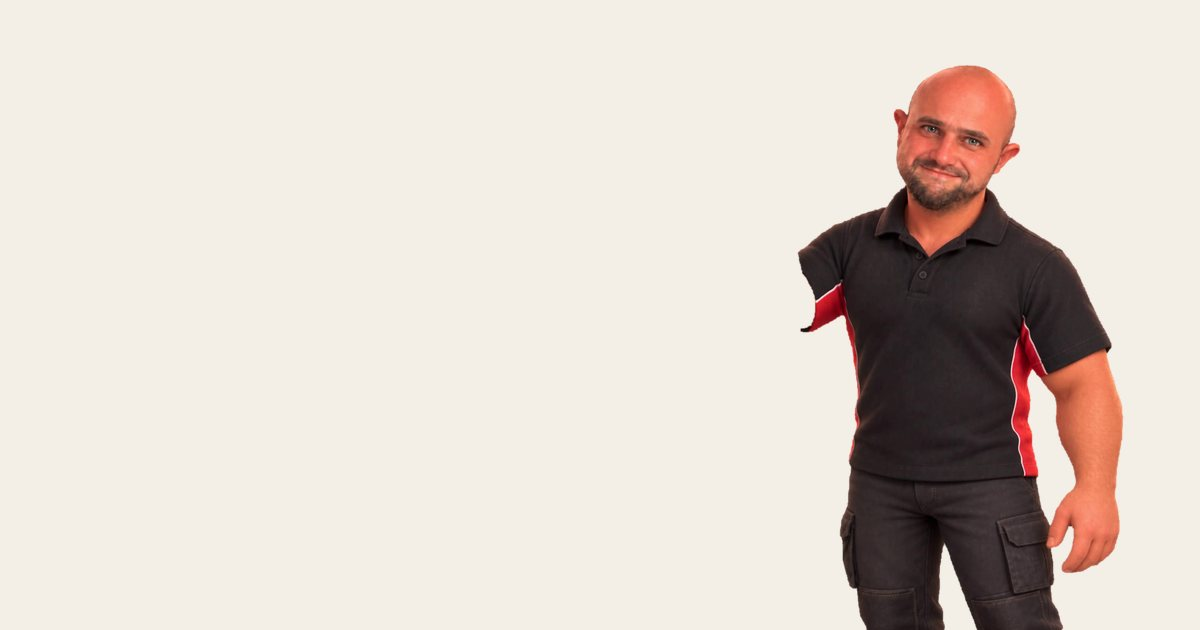
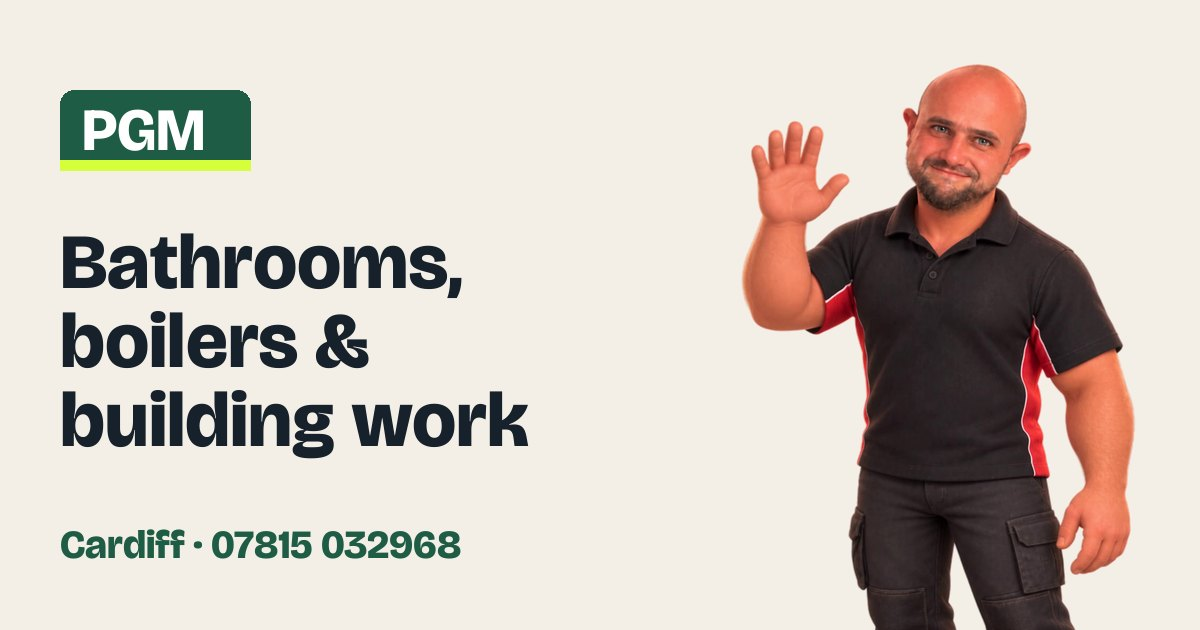
PGM: fix share image (arm was cut off), absolute og:image

diff --git a/pgm/index.html b/pgm/index.html
@@ -10,7 +10,7 @@
 <meta name="theme-color" content="#1f5c45">
 <meta property="og:title" content="PGM Construction — builders, bathrooms &amp; heating in Cardiff">
 <meta property="og:description" content="Jon and the PGM team: bathrooms, boilers, extensions, walls and patios across Cardiff. Honest ballpark prices and a tidy job.">
-<meta property="og:image" content="media/og.jpg">
+<meta property="og:image" content="{OG}">
 <link rel="icon" type="image/png" href="media/favicon.png">
 <link rel="apple-touch-icon" href="media/apple-touch-icon.png">
 <link rel="preconnect" href="https://fonts.googleapis.com">

diff --git a/pgm/services.html b/pgm/services.html
@@ -10,7 +10,7 @@
 <meta name="theme-color" content="#1f5c45">
 <meta property="og:title" content="Services &amp; guide prices — PGM Construction, Cardiff">
 <meta property="og:description" content="Bathrooms, boilers and radiators, extensions, walls, patios and repairs in Cardiff, explained in plain English with guide prices.">
-<meta property="og:image" content="media/og.jpg">
+<meta property="og:image" content="{OG}">
 <link rel="icon" type="image/png" href="media/favicon.png">
 <link rel="apple-touch-icon" href="media/apple-touch-icon.png">
 <link rel="preconnect" href="https://fonts.googleapis.com">

diff --git a/pgm/quote.html b/pgm/quote.html
@@ -10,7 +10,7 @@
 <meta name="theme-color" content="#1f5c45">
 <meta property="og:title" content="Get a ballpark price — PGM Construction, Cardiff">
 <meta property="og:description" content="Two minutes, no email needed: a fair guide price for your job from Jon.">
-<meta property="og:image" content="media/og.jpg">
+<meta property="og:image" content="{OG}">
 <link rel="icon" type="image/png" href="media/favicon.png">
 <link rel="apple-touch-icon" href="media/apple-touch-icon.png">
 <link rel="preconnect" href="https://fonts.googleapis.com">

diff --git a/pgm/reviews.html b/pgm/reviews.html
@@ -10,7 +10,7 @@
 <meta name="theme-color" content="#1f5c45">
 <meta property="og:title" content="Customer reviews — PGM Construction, Cardiff">
 <meta property="og:description" content="What Cardiff customers say about Jon and the PGM team on Google.">
-<meta property="og:image" content="media/og.jpg">
+<meta property="og:image" content="{OG}">
 <link rel="icon" type="image/png" href="media/favicon.png">
 <link rel="apple-touch-icon" href="media/apple-touch-icon.png">
 <link rel="preconnect" href="https://fonts.googleapis.com">

diff --git a/pgm/contact.html b/pgm/contact.html
@@ -10,7 +10,7 @@
 <meta name="theme-color" content="#1f5c45">
 <meta property="og:title" content="Contact Jon — PGM Construction, Cardiff">
 <meta property="og:description" content="Ring, text or WhatsApp Jon on 07815 032968, or ask for a call-back.">
-<meta property="og:image" content="media/og.jpg">
+<meta property="og:image" content="{OG}">
 <link rel="icon" type="image/png" href="media/favicon.png">
 <link rel="apple-touch-icon" href="media/apple-touch-icon.png">
 <link rel="preconnect" href="https://fonts.googleapis.com">

diff --git a/pgm/projects.html b/pgm/projects.html
@@ -10,7 +10,7 @@
 <meta name="theme-color" content="#1f5c45">
 <meta property="og:title" content="Past projects — PGM Construction, Cardiff">
 <meta property="og:description" content="Bathrooms, heating, extensions and gardens around Cardiff.">
-<meta property="og:image" content="media/og.jpg">
+<meta property="og:image" content="{OG}">
 <link rel="icon" type="image/png" href="media/favicon.png">
 <link rel="apple-touch-icon" href="media/apple-touch-icon.png">
 <link rel="preconnect" href="https://fonts.googleapis.com">

diff --git a/pgm/about.html b/pgm/about.html
@@ -10,7 +10,7 @@
 <meta name="theme-color" content="#1f5c45">
 <meta property="og:title" content="About Jon — PGM Construction, Cardiff">
 <meta property="og:description" content="Meet Jon Ledner and the PGM team, based in Rhiwbina, Cardiff.">
-<meta property="og:image" content="media/og.jpg">
+<meta property="og:image" content="{OG}">
 <link rel="icon" type="image/png" href="media/favicon.png">
 <link rel="apple-touch-icon" href="media/apple-touch-icon.png">
 <link rel="preconnect" href="https://fonts.googleapis.com">

diff --git a/pgm/404.html b/pgm/404.html
@@ -10,7 +10,7 @@
 <meta name="theme-color" content="#1f5c45">
 <meta property="og:title" content="Well, that’s not where I left it — PGM Construction">
 <meta property="og:description" content="Page not found.">
-<meta property="og:image" content="media/og.jpg">
+<meta property="og:image" content="{OG}">
 <link rel="icon" type="image/png" href="media/favicon.png">
 <link rel="apple-touch-icon" href="media/apple-touch-icon.png">
 <link rel="preconnect" href="https://fonts.googleapis.com">
